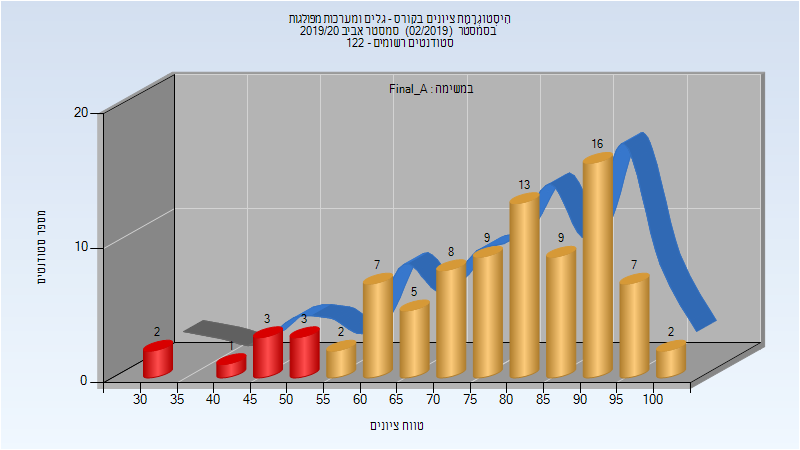
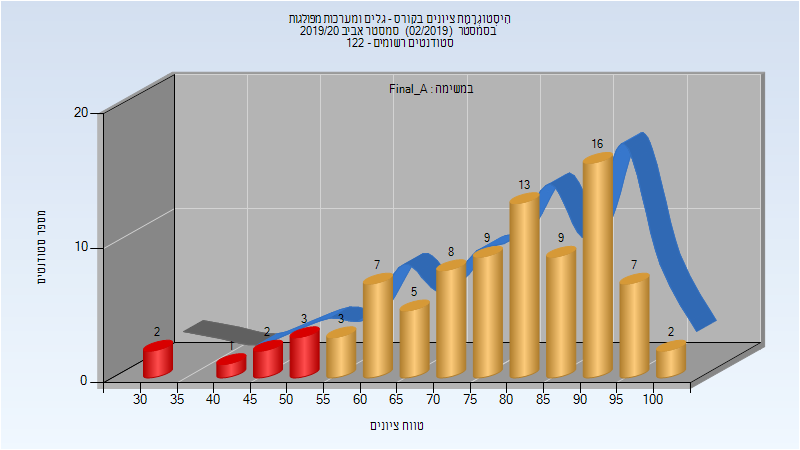
Deploy michael-maltsev/technion-histograms to github.com/michael-maltsev/technion-histograms.git:gh-pages

Changed region(s): [[0.3125, 0.6533, 0.4688, 0.7778], [0.5, 0.5911, 0.5312, 0.6533], [0.4688, 0.6533, 0.5, 0.6844]]

diff --git a/044148/index.html b/044148/index.html
@@ -2180,12 +2180,64 @@
 <tbody>
 <tr>
 <td>87</td>
-<td>78/9</td>
-<td>90</td>
+<td>79/8</td>
+<td>91</td>
 <td>31</td>
 <td>100</td>
-<td>77.425</td>
+<td>77.529</td>
 <td>81</td>
+</tr>
+</tbody>
+</table>
+<h3>מבחן מועד ב'</h3>
+<p><img src="201902/Exam_B.png" alt="201902 Exam_B" /></p>
+<table>
+<thead>
+<tr>
+<th>סטודנטים</th>
+<th>עברו/נכשלו</th>
+<th>אחוז עוברים</th>
+<th>ציון מינימלי</th>
+<th>ציון מקסימלי</th>
+<th>ממוצע</th>
+<th>חציון</th>
+</tr>
+</thead>
+<tbody>
+<tr>
+<td>37</td>
+<td>21/16</td>
+<td>57</td>
+<td>18</td>
+<td>101</td>
+<td>58.595</td>
+<td>58</td>
+</tr>
+</tbody>
+</table>
+<h3>סופי מועד ב'</h3>
+<p><img src="201902/Final_B.png" alt="201902 Final_B" /></p>
+<table>
+<thead>
+<tr>
+<th>סטודנטים</th>
+<th>עברו/נכשלו</th>
+<th>אחוז עוברים</th>
+<th>ציון מינימלי</th>
+<th>ציון מקסימלי</th>
+<th>ממוצע</th>
+<th>חציון</th>
+</tr>
+</thead>
+<tbody>
+<tr>
+<td>37</td>
+<td>32/5</td>
+<td>86</td>
+<td>26</td>
+<td>100</td>
+<td>66.081</td>
+<td>66</td>
 </tr>
 </tbody>
 </table>

diff --git a/044148/README.md b/044148/README.md
@@ -678,7 +678,23 @@
 
 | סטודנטים | עברו/נכשלו | אחוז עוברים | ציון מינימלי | ציון מקסימלי | ממוצע | חציון |
 | ---- | ---- | ---- | ---- | ---- | ---- | ---- |
-| 87 | 78/9 | 90 | 31 | 100 | 77.425 | 81 |
+| 87 | 79/8 | 91 | 31 | 100 | 77.529 | 81 |
+
+### מבחן מועד ב'
+
+![201902 Exam_B](201902/Exam_B.png)
+
+| סטודנטים | עברו/נכשלו | אחוז עוברים | ציון מינימלי | ציון מקסימלי | ממוצע | חציון |
+| ---- | ---- | ---- | ---- | ---- | ---- | ---- |
+| 37 | 21/16 | 57 | 18 | 101 | 58.595 | 58 |
+
+### סופי מועד ב'
+
+![201902 Final_B](201902/Final_B.png)
+
+| סטודנטים | עברו/נכשלו | אחוז עוברים | ציון מינימלי | ציון מקסימלי | ממוצע | חציון |
+| ---- | ---- | ---- | ---- | ---- | ---- | ---- |
+| 37 | 32/5 | 86 | 26 | 100 | 66.081 | 66 |
 
 ### סופי
 
